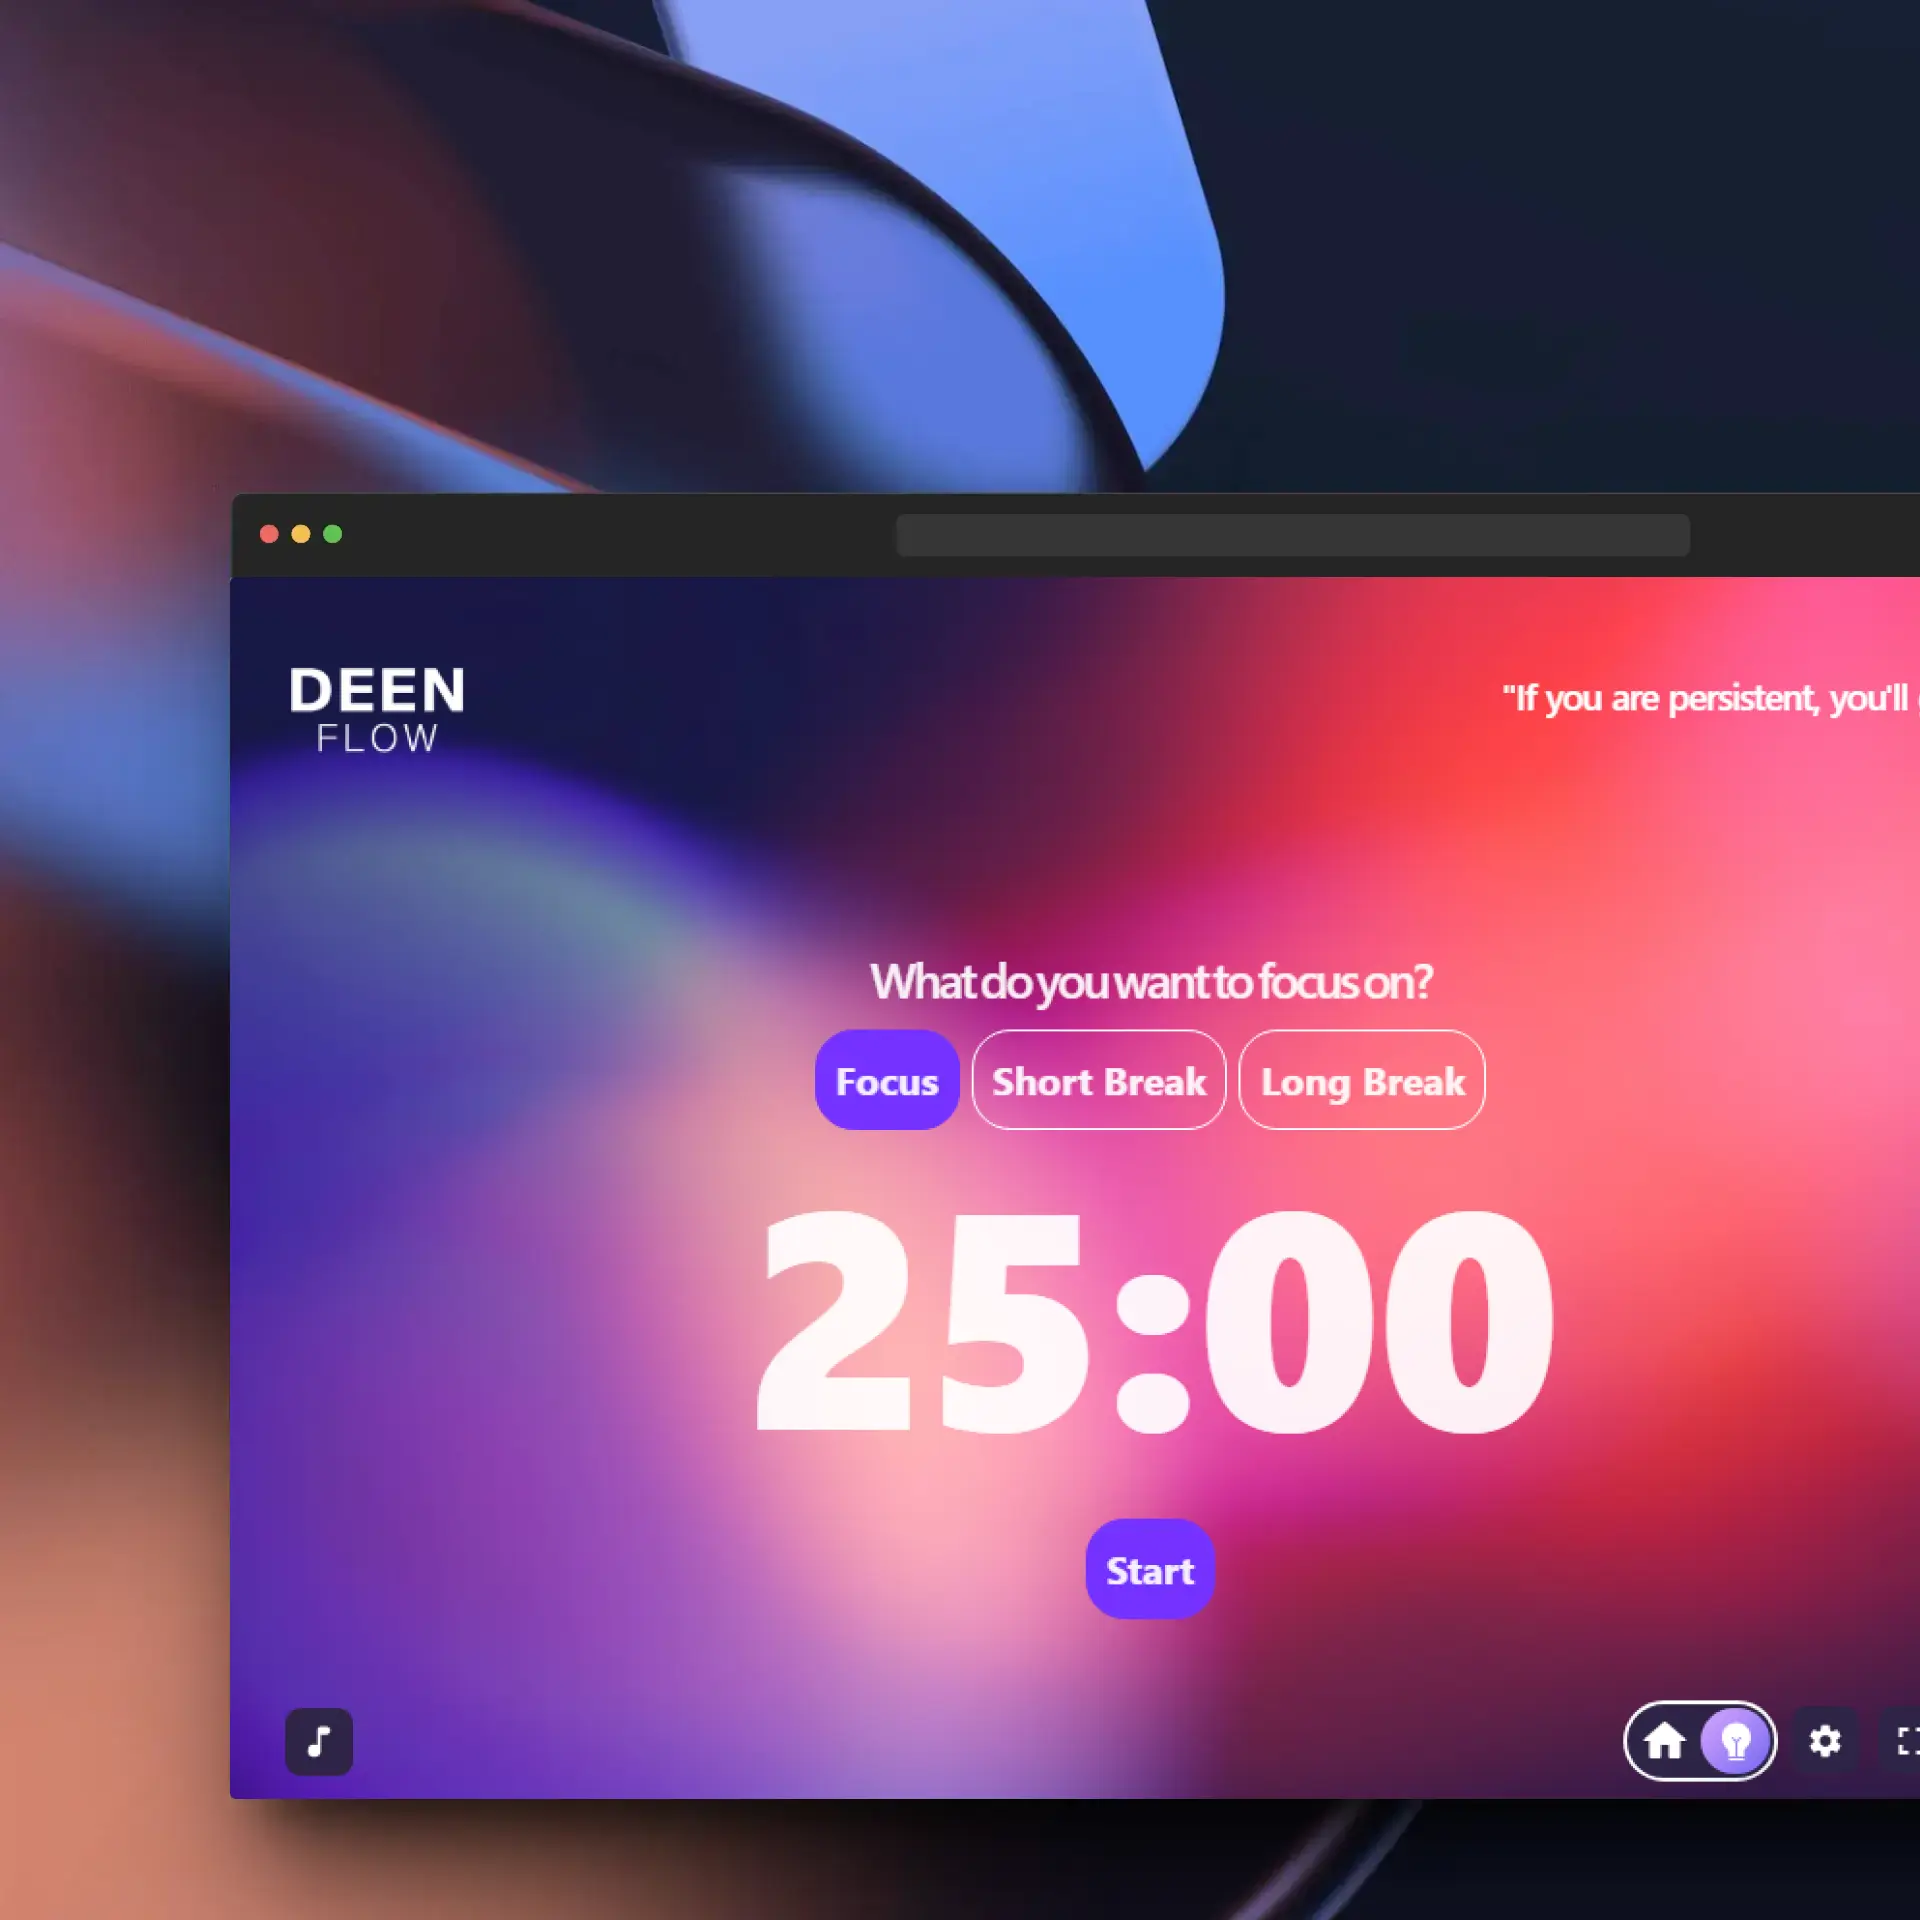
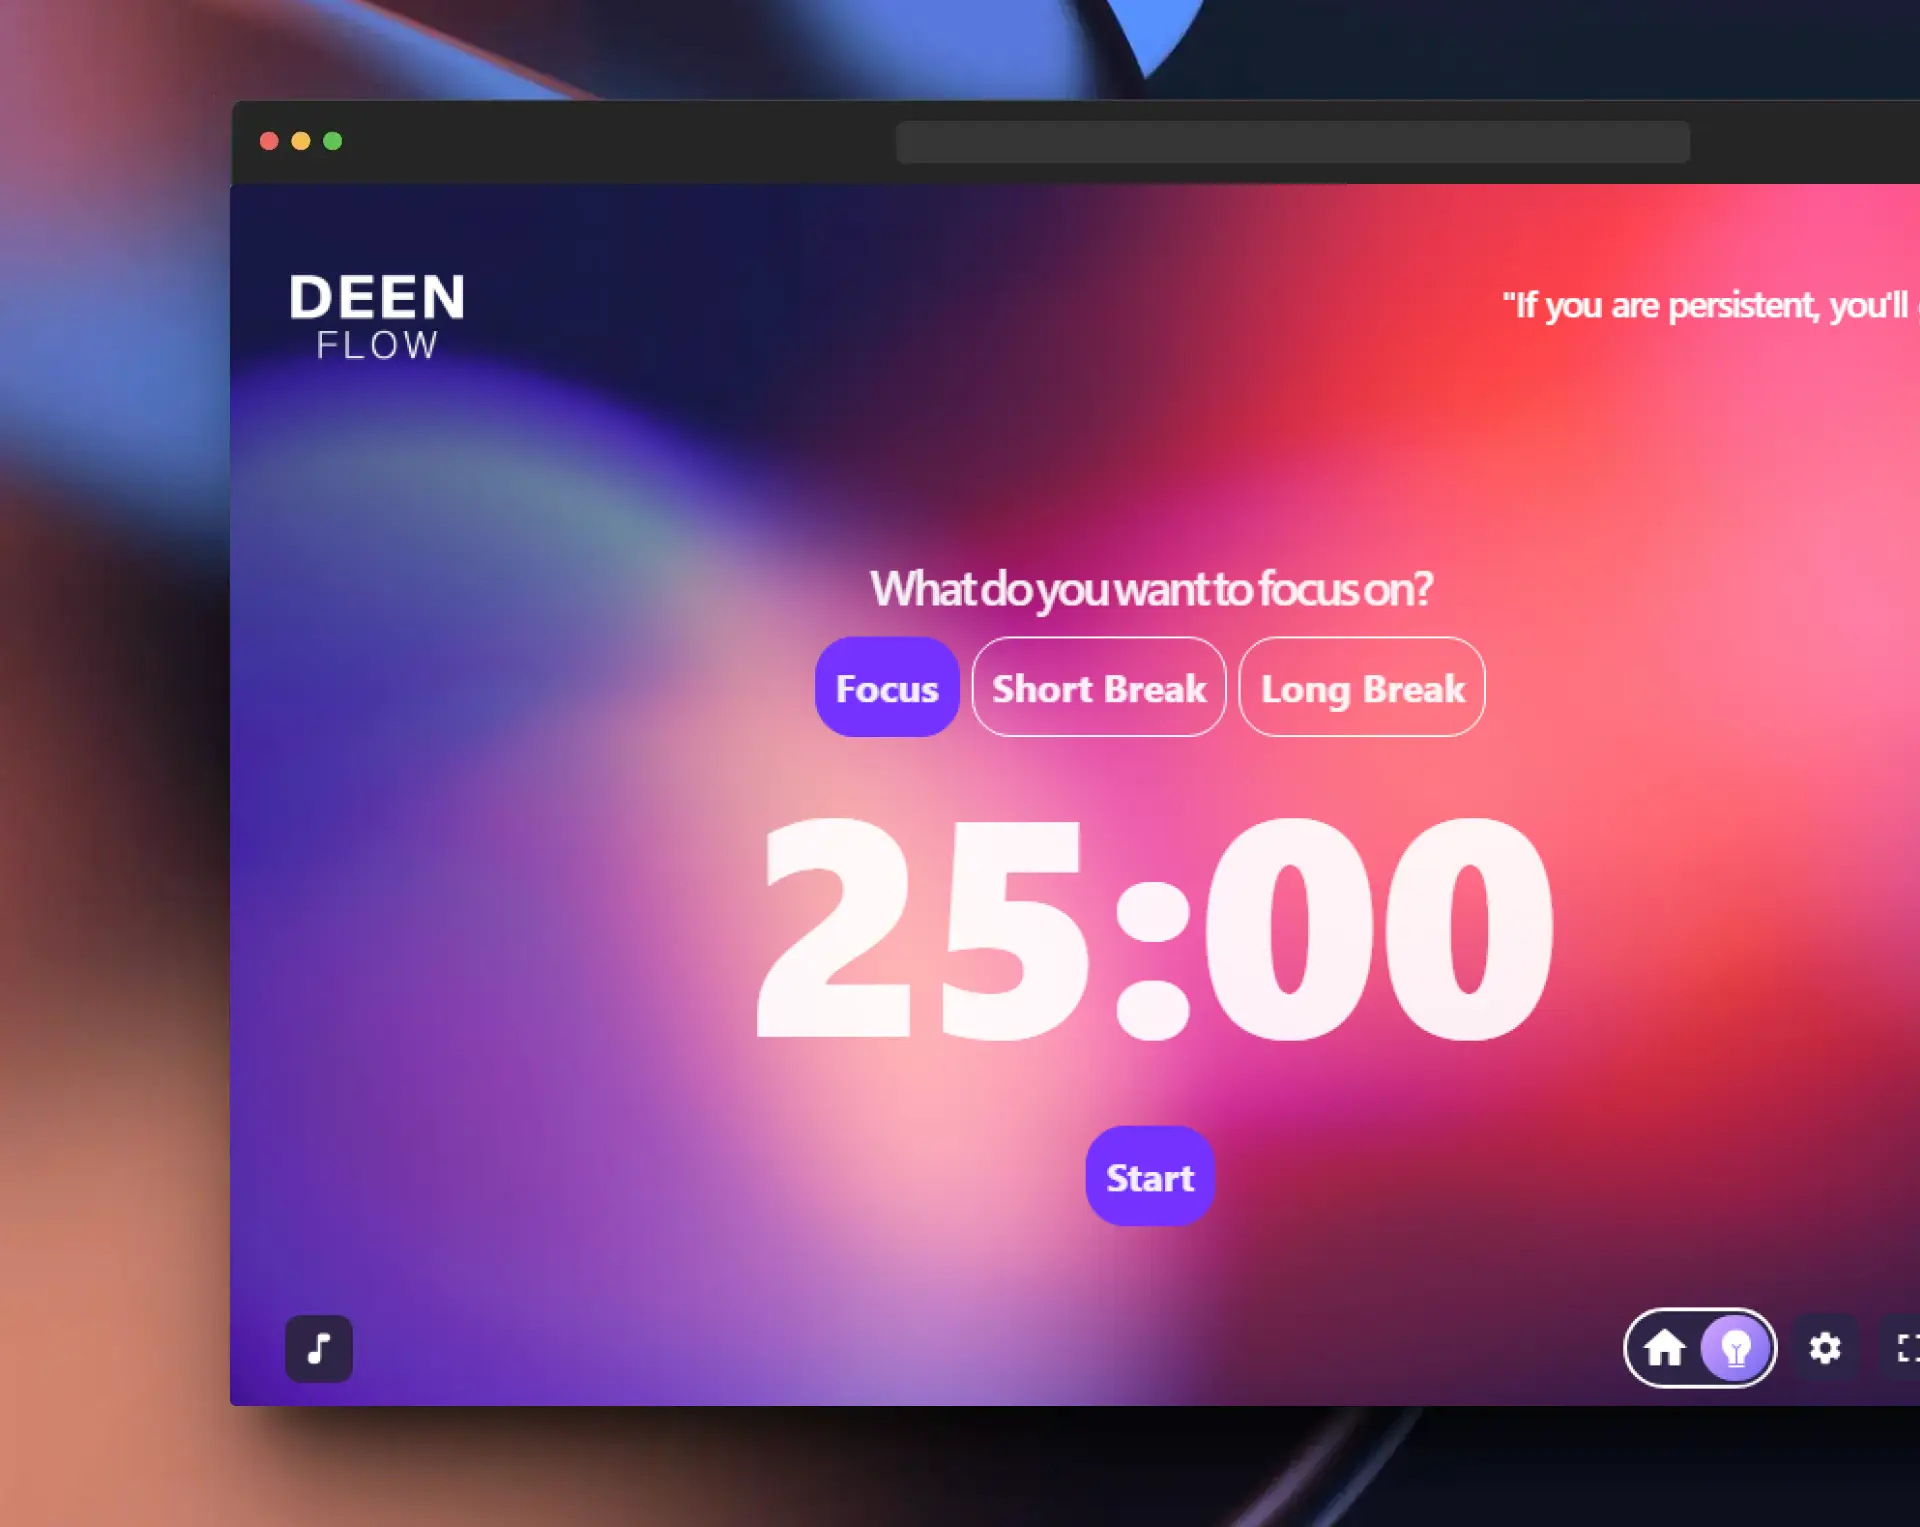
m changes

diff --git a/src/components/homepage/Works.jsx b/src/components/homepage/Works.jsx
@@ -78,7 +78,7 @@ export default function Works({ forwardedRef }) {
           />
         </div>
           {/* Project #6 */}
-        <div className="col-span-1  h-fit md:col-start-5 md:col-end-13 ">
+        <div className="col-span-1  h-fit md:col-start-6 md:col-end-13 ">
           <Projects 
             link="https://deenflow.vercel.app/"
             img={deenflow}
